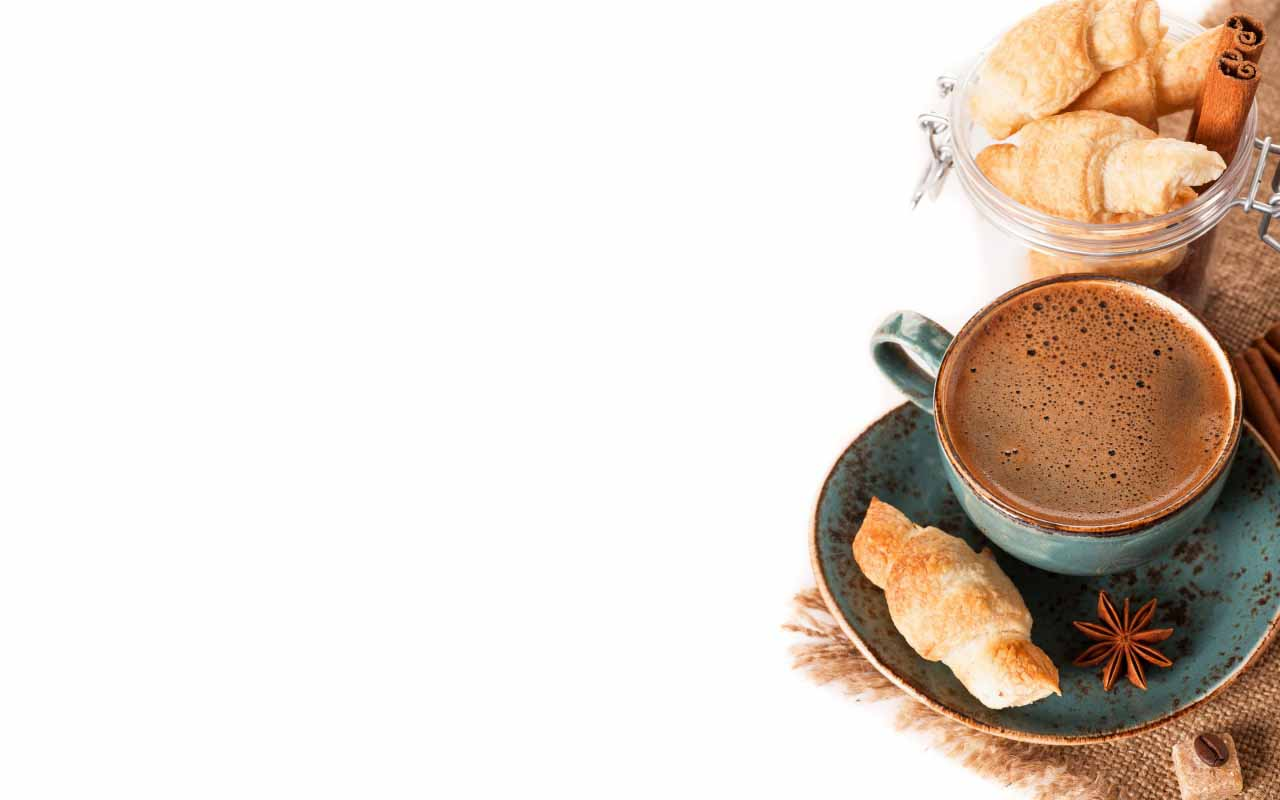
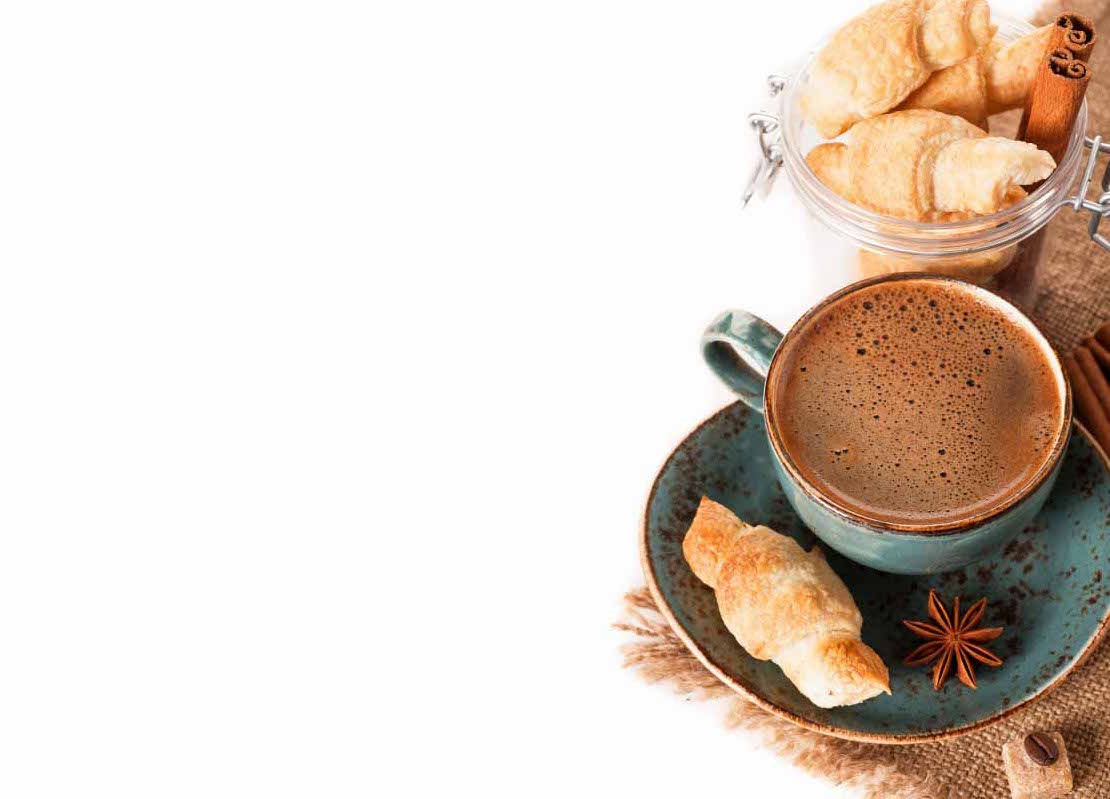
touchups

Changed region(s): [[0.5514, 0.0, 1.0, 1.0]]

diff --git a/public/css/app.css b/public/css/app.css
@@ -7,7 +7,7 @@
 
 .cover {
   background-image: url(coffee.jpg);
-  background-size: cover;
+  background-size: 100% 100%;
 }
 
 body {
@@ -76,7 +76,7 @@ div {
 .chat-column {
   height: 100%;
   padding: 0.9375rem 0 0.625rem 0;
-  margin-left: 350px;
+  margin-left: 100px;
   text-align: left;
   max-width: 25rem;
   min-width: 9.375rem;
@@ -206,7 +206,7 @@ div {
   height: 2.5rem;
   max-width: 100%;
   padding-left: 0.125rem;
-  margin-bottom: -0.125rem;
+  margin-bottom: -0.4rem;
   font-family: 'Roboto', sans-serif;
 }
 
@@ -214,10 +214,19 @@ div {
   border-bottom: 0.125rem solid #00B4A0;
 }
 
+.inputOutline {
+  display: block;
+  border-bottom: 0.0625rem solid #aeaeae;
+  margin-left: 0.5rem;
+  margin-right: 150px;
+  width: 65%;
+}
+
 #submitID {
   float:right;
+  position: fixed;
   margin-top: 10px;
-  margin-right: 10px;
+  margin-left: 390px;
   border-radius: 7px;
   height: 38px;
   width: 75px;
@@ -260,12 +269,7 @@ input:-moz-placeholder {
   display: none;
 }
 
-.inputOutline {
-  display: block;
-  border-bottom: 0.0625rem solid #aeaeae;
-  margin-left: 0.5rem;
-  margin-right: 0.5rem;
-}
+
 
 #textInputDummy {
   position:absolute;

diff --git a/public/index.html b/public/index.html
@@ -19,9 +19,7 @@
               <div class="chat-column">
                   <div id="scrollingChat"></div>
                   <label for="textInput" class="inputOutline">
-                    <form>
-                      <input id="submitID" onclick="ConversationPanel.click(event, document.getElementById('textInput'))" type="button" value="Send"/>
-                    </form>
+                  <input id="submitID" onclick="ConversationPanel.click(event, document.getElementById('textInput'))" type="button" value="Send"/>
                   <div style="overflow: hidden; padding-right: .5em;">
                     <input name="textInput" id="textInput" class="input responsive-column"
                            placeholder="Order something..." type="text"
